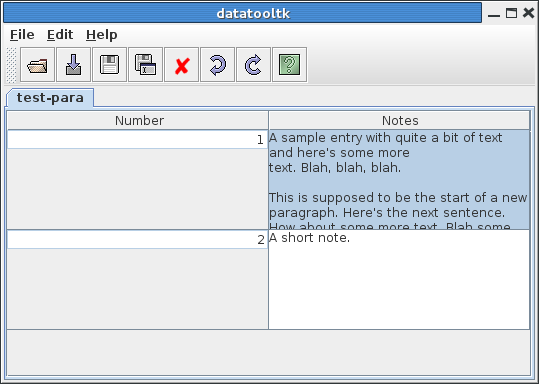
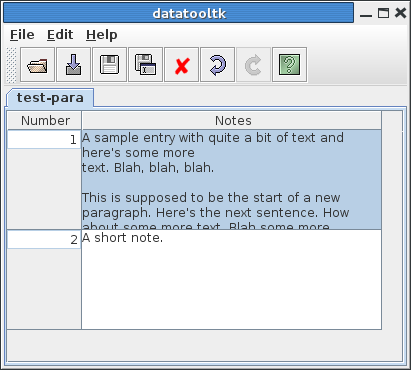
Specified a min preferred string column width

diff --git a/src/java/gui/DatatoolDbPanel.java b/src/java/gui/DatatoolDbPanel.java
@@ -1,8 +1,7 @@
 package com.dickimawbooks.datatooltk.gui;
 
 import java.io.*;
-import java.awt.Point;
-import java.awt.BorderLayout;
+import java.awt.*;
 import java.awt.event.MouseEvent;
 import java.awt.event.MouseAdapter;
 import javax.swing.*;
@@ -34,7 +33,7 @@ public class DatatoolDbPanel extends JPanel
       table = new JTable(new DatatoolDbTableModel(db, this));
 
       table.setRowHeight(100);
-      table.setAutoResizeMode(JTable.AUTO_RESIZE_ALL_COLUMNS);
+      table.setAutoResizeMode(JTable.AUTO_RESIZE_OFF);
 
       DbNumericalCellEditor editor = new DbNumericalCellEditor();
 
@@ -116,6 +115,17 @@ public class DatatoolDbPanel extends JPanel
               }
            }
         });
+
+      for (int i = 0; i < table.getColumnCount(); i++)
+      {
+         if (db.getHeader(i+1).getType() == DatatoolDb.TYPE_STRING)
+         {
+            TableColumn column = table.getColumnModel().getColumn(i);
+
+            column.setPreferredWidth(Math.max(column.getPreferredWidth(),
+              STRING_MIN_WIDTH));
+         }
+      }
 
       add(new JScrollPane(table), BorderLayout.CENTER);
    }
@@ -274,6 +284,8 @@ public class DatatoolDbPanel extends JPanel
    private UndoManager undoManager;
 
    private DatatoolCell currentCell;
+
+   public static final int STRING_MIN_WIDTH=300;
 }
 
 class DatatoolDbTableModel extends AbstractTableModel

diff --git a/src/java/DatatoolDb.java b/src/java/DatatoolDb.java
@@ -831,8 +831,11 @@ public class DatatoolDb
 
    public DatatoolHeader getHeader(int headerIndex)
    {
-      for (DatatoolHeader header : headers)
+      for (HeaderEnumeration en=headerElements(headerIndex-1);
+          en.hasMoreElements();)
       {
+         DatatoolHeader header = en.nextElement();
+
          if (header.getColumnIndex() == headerIndex)
          {
             return header;
@@ -863,6 +866,11 @@ public class DatatoolDb
    public HeaderEnumeration headerElements()
    {
       return new HeaderEnumeration(headers);
+   }
+
+   public HeaderEnumeration headerElements(int offset)
+   {
+      return new HeaderEnumeration(headers, offset);
    }
 
    public RowEnumeration rowElements()
